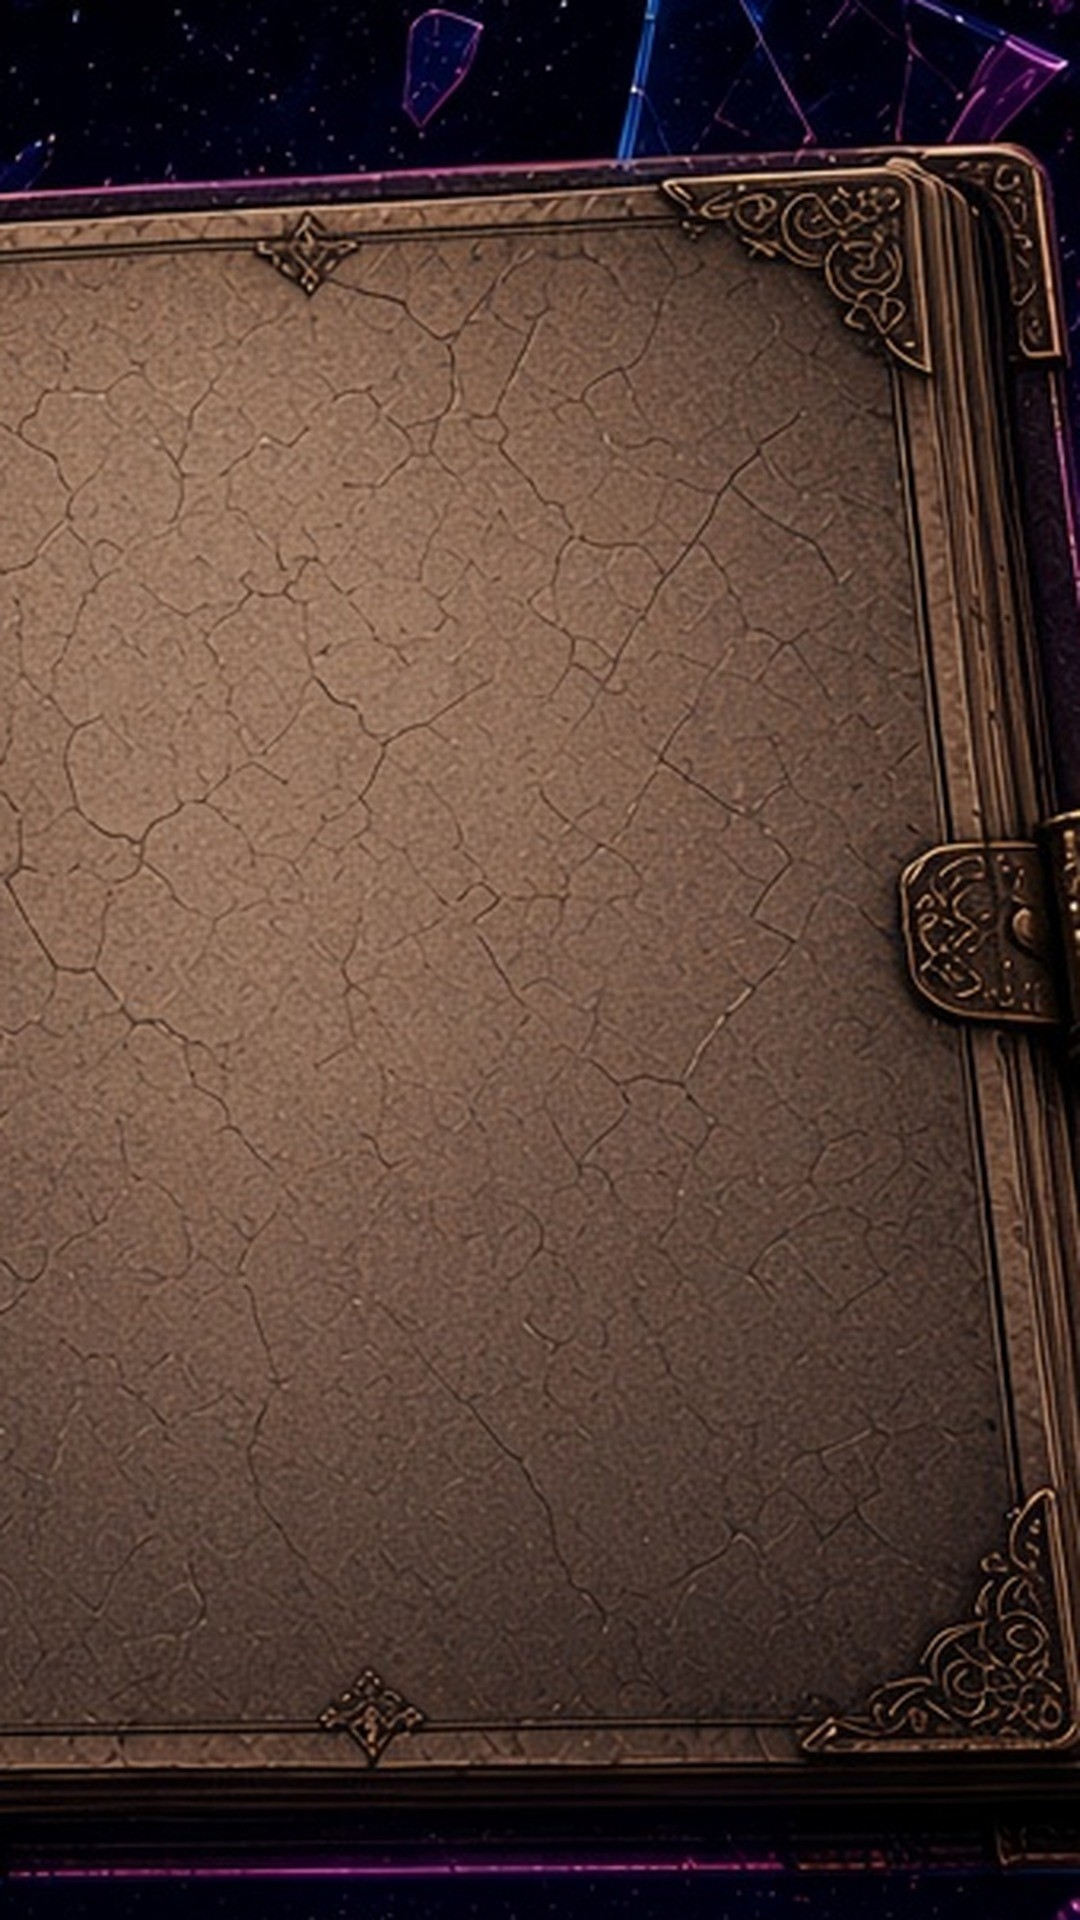
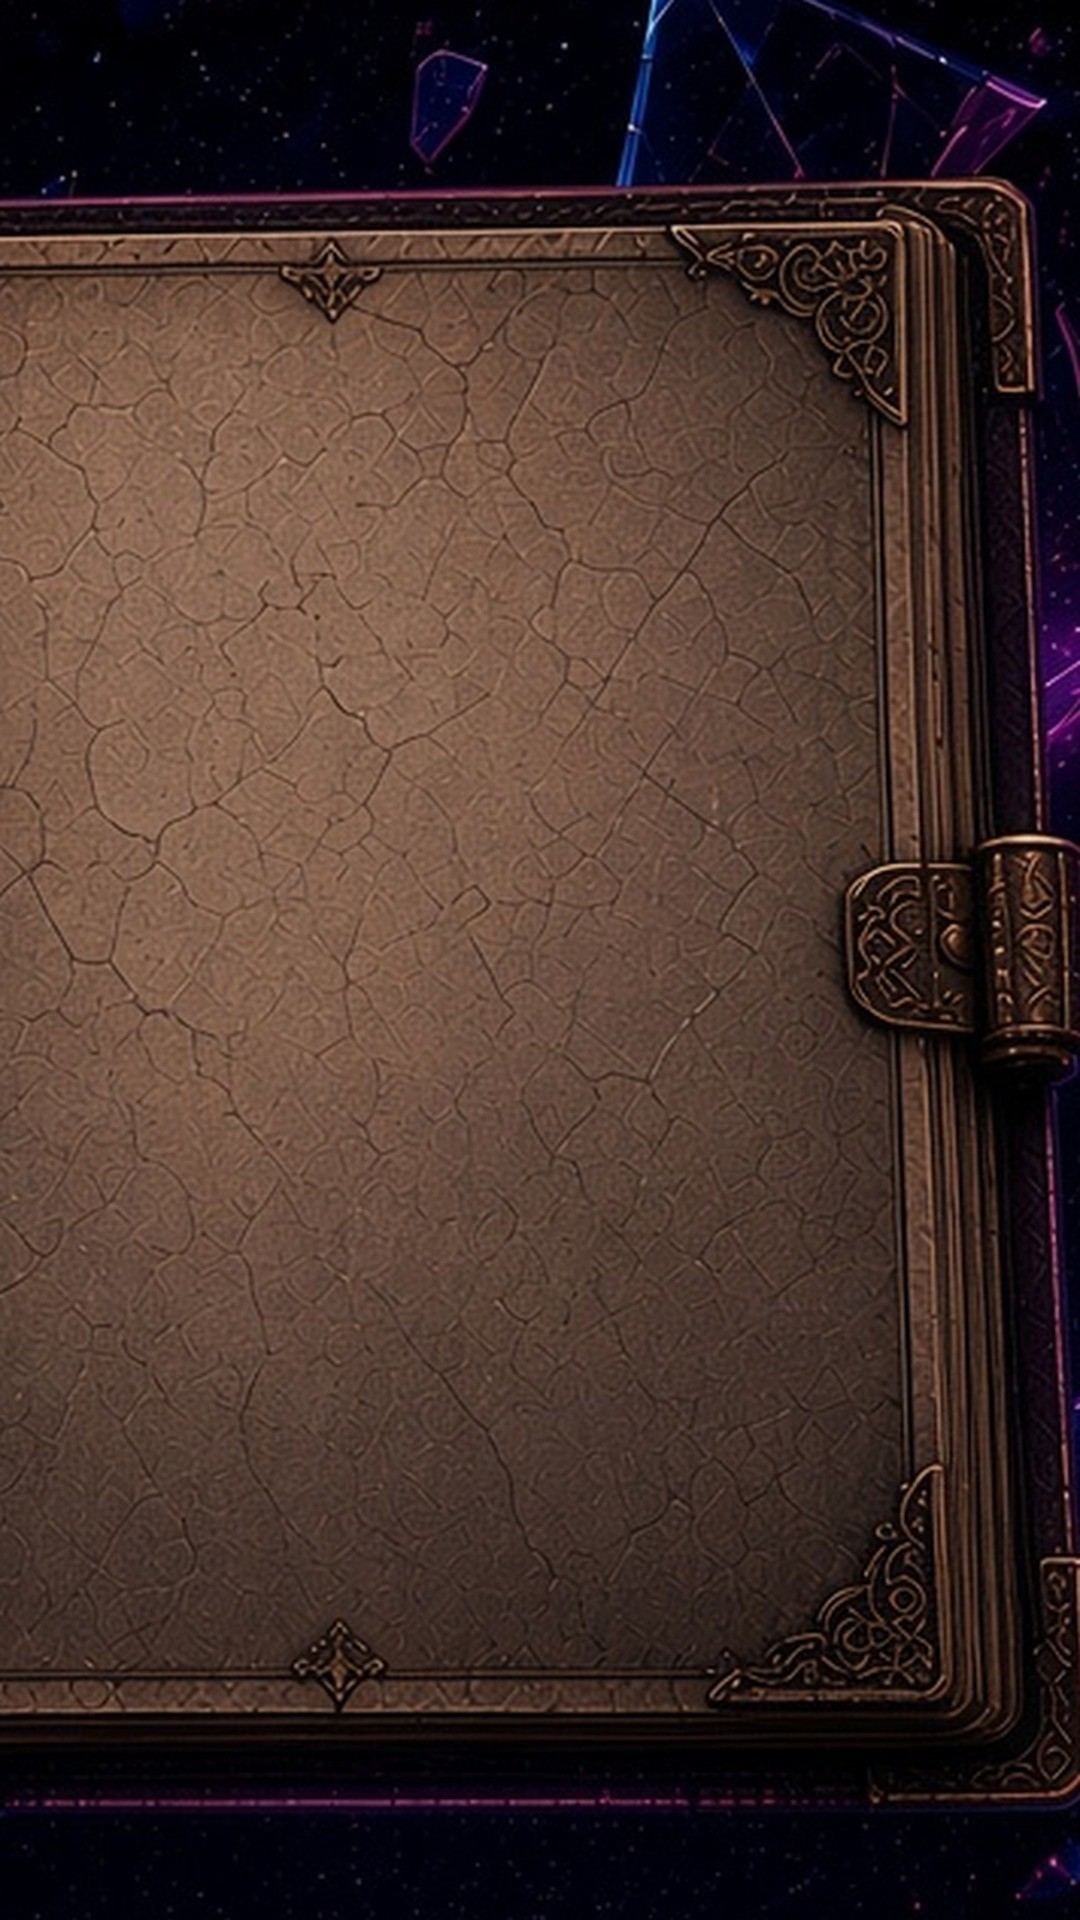
Binder: ルクス本線bg/portrait・inset 19% 54% 20% 20%・塗りなし+カードdrop-shadowのみ

diff --git a/index.html b/index.html
@@ -166,9 +166,9 @@ button.card.pickable{cursor:pointer}
 :root{--pr-bg:#0d0f1a;--pr-cyan:#3ff0ff;--pr-mag:#ff5fc8;--pr-ultra:#2A3C9E;--hit-min:48px;--badge:2.9rem}
 .build:has(.binder){background:linear-gradient(rgba(13,15,26,.6),rgba(13,15,26,.85)),url(assets/ui/binder/binder-bg-cover-markspace-1920x1080.jpg) center/cover fixed}
 .binder{position:relative;display:block;width:min(98vw,calc(86dvh*16/9));aspect-ratio:16/9;padding:0;border-radius:6px;background:url(assets/ui/binder/binder-bg-spread-blank-1920x1080.jpg) center/cover no-repeat,var(--pr-bg);box-shadow:0 10px 40px rgba(0,0,0,.8)}
-.binder .bpage{position:absolute;inset:19.5% 55% 19.5% 21%;background:transparent;color:#2e1c0c;text-shadow:0 1px 0 rgb(240 225 195/.5);padding:1rem;border-radius:6px;box-shadow:inset 0 0 28px 6px rgb(30 20 12/.22);overflow:auto;display:flex;flex-direction:column;gap:8px}
-.binder .bright{inset:19.5% 21% 19.5% 55%}
-.binder .bpage::before{content:none}
+.binder .bpage{position:absolute;inset:19% 54% 20% 20%;background:transparent;color:#2e1c0c;text-shadow:0 1px 0 rgb(240 225 195/.5);padding:1rem;border-radius:6px;box-shadow:none;mix-blend-mode:normal;overflow:auto;display:flex;flex-direction:column;gap:8px}
+.binder .bright{inset:19% 20% 20% 54%}
+.binder .bpage::before{content:none}.binder .bpage .card,.binder .bdslot,.binder .bslot{filter:drop-shadow(0 4px 6px rgb(20 12 6/.55))}
 .binder .bpage>*{position:relative;z-index:1}
 .binder .bspine{display:none}
 .bhead{border:0;margin:0 0 4px;padding:0;color:var(--pr-cyan);display:flex;align-items:center;justify-content:center;gap:8px}
